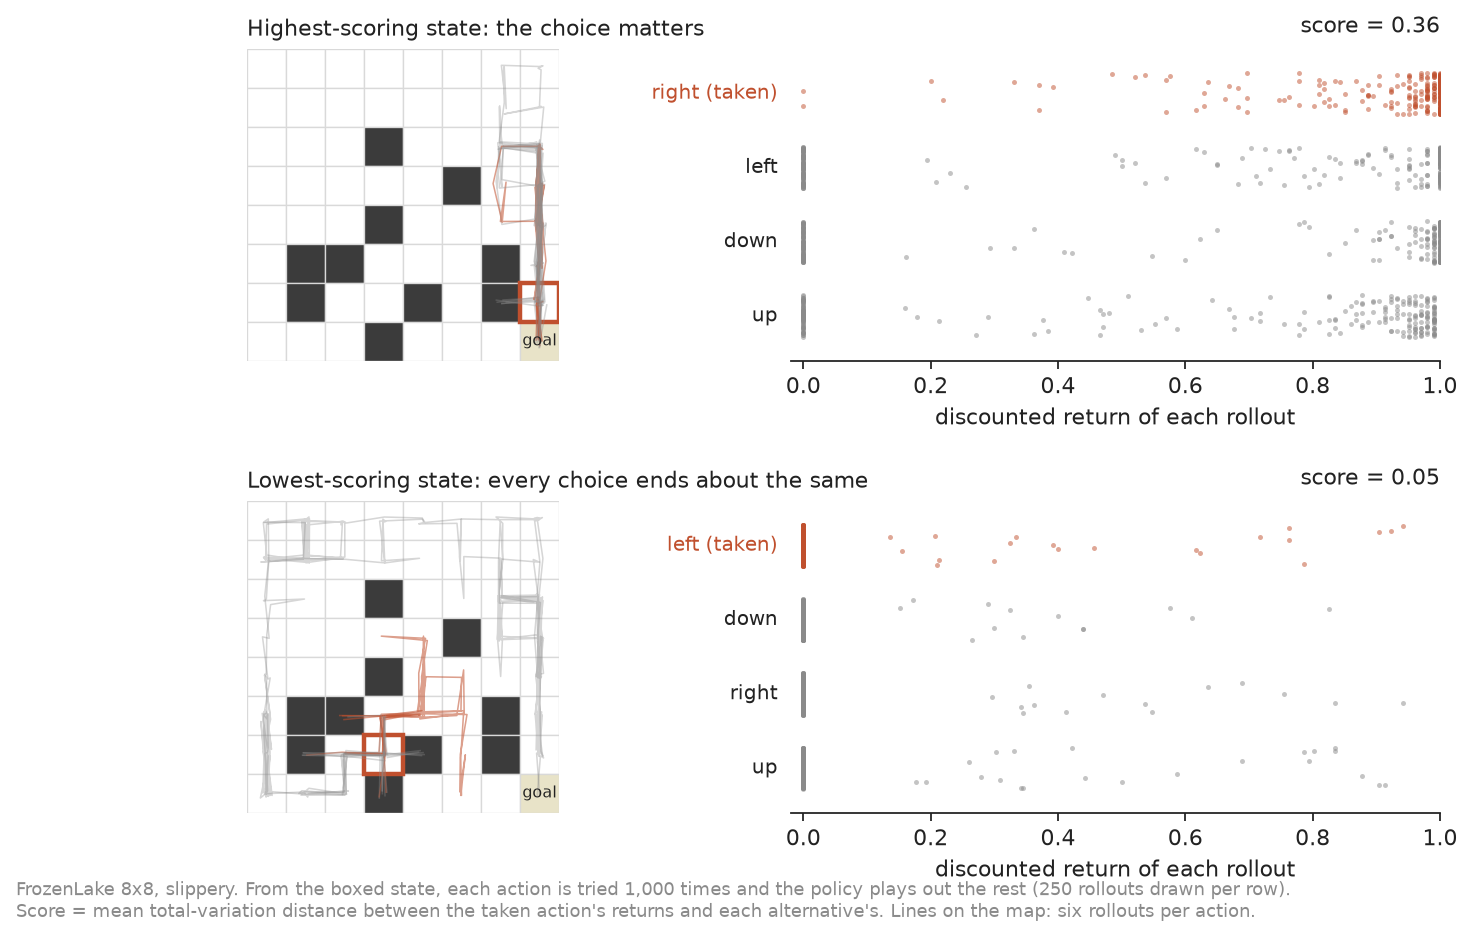
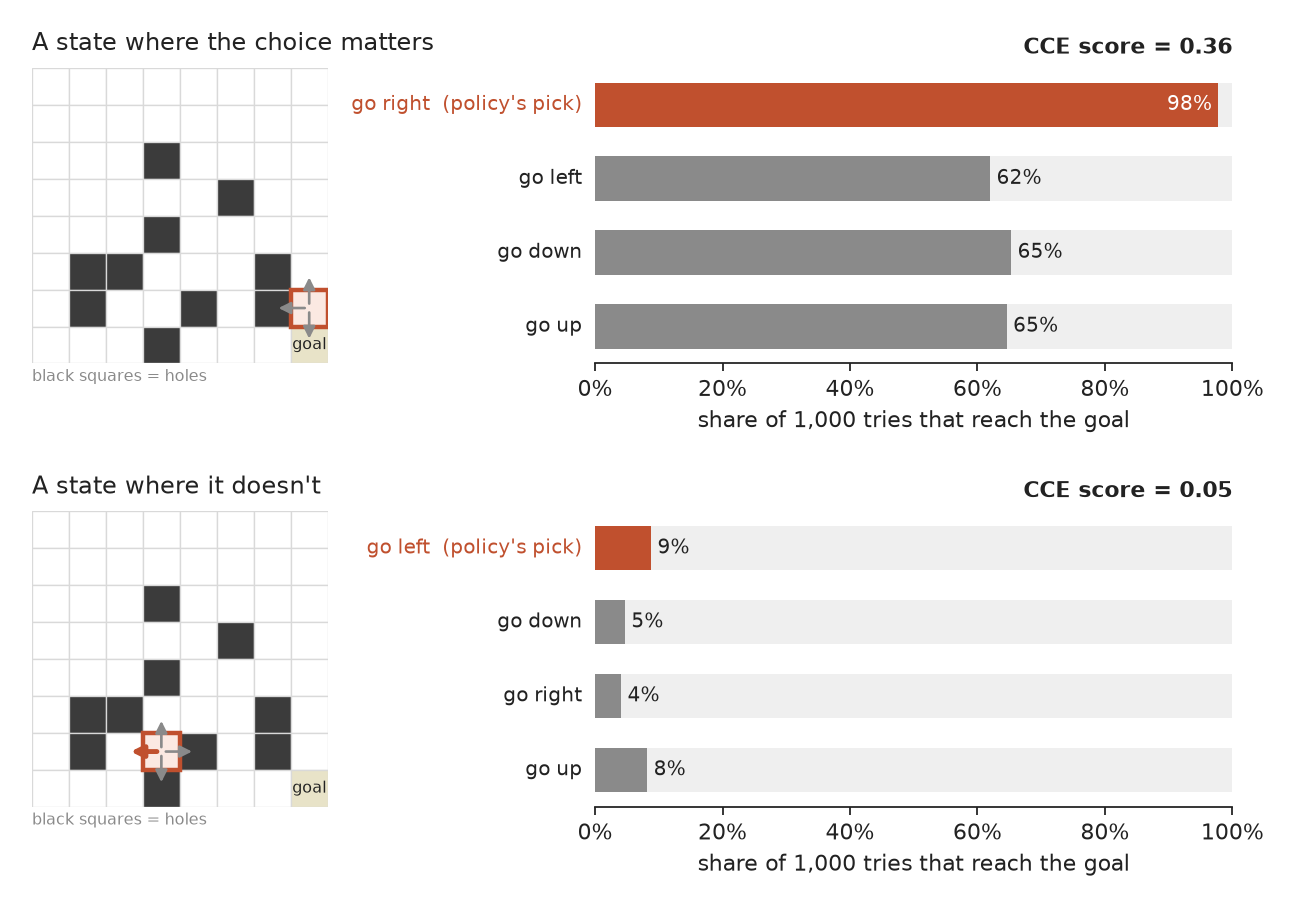
docs: clearer algorithm figure (arrows + goal-rate bars)

diff --git a/analysis/readme/make_readme_figs.py b/analysis/readme/make_readme_figs.py
@@ -135,7 +135,7 @@ score_hi, rets_hi = cce_score(HIGH, n=1000)
 score_lo, rets_lo = cce_score(LOW, n=1000)
 
 
-def draw_map(ax, s, paths_by_action):
+def draw_map(ax, s):
     for r in range(N):
         for c in range(N):
             ch = MAP[r][c]
@@ -143,53 +143,53 @@ def draw_map(ax, s, paths_by_action):
             ax.add_patch(Rectangle((c, r), 1, 1, fc=fc, ec=LIGHT, lw=0.6))
             if ch == "G":
                 ax.text(c + .5, r + .5, "goal", ha="center", va="center", fontsize=7, color=INK)
-    taken = policy[s]
-    for a, paths in paths_by_action.items():
-        col = ACCENT if a == taken else GRAY
-        for p in paths:
-            rc = np.array([cell(x) for x in p], float)
-            jitter = rng.normal(0, 0.06, rc.shape)
-            ax.plot(rc[:, 1] + .5 + jitter[:, 1], rc[:, 0] + .5 + jitter[:, 0],
-                    color=col, lw=0.7, alpha=0.55 if a == taken else 0.35)
     r, c = cell(s)
-    ax.add_patch(Rectangle((c, r), 1, 1, fc="none", ec=ACCENT, lw=2))
+    ax.add_patch(Rectangle((c, r), 1, 1, fc="#fbe9e2", ec=ACCENT, lw=2))
+    taken = policy[s]
+    for a in range(4):
+        dr, dc = MOVES[a]
+        col = ACCENT if a == taken else GRAY
+        ax.annotate("", xy=(c + .5 + dc * .95, r + .5 + dr * .95), xytext=(c + .5, r + .5),
+                    arrowprops=dict(arrowstyle="-|>", color=col, lw=2.2 if a == taken else 1.2,
+                                    mutation_scale=11))
+    ax.text(0, N + 0.15, "black squares = holes", ha="left", va="top", fontsize=7, color=GRAY)
     ax.set_xlim(0, N); ax.set_ylim(N, 0); ax.set_aspect("equal"); ax.axis("off")
 
 
-def draw_returns(ax, s, rets, score):
+def draw_outcomes(ax, s, rets, score):
     taken = policy[s]
     order = [taken] + [a for a in range(4) if a != taken]
     for i, a in enumerate(order):
-        x = rets[a][:250]
-        y = np.full_like(x, -i) + rng.uniform(-0.28, 0.28, x.size)
-        ax.scatter(x, y, s=5, color=ACCENT if a == taken else GRAY, alpha=0.5, lw=0)
-        ax.text(-0.04, -i, ACTIONS[a] + (" (taken)" if a == taken else ""),
-                ha="right", va="center", fontsize=9,
-                color=ACCENT if a == taken else INK)
+        goal = (rets[a] > 0).mean()
+        col = ACCENT if a == taken else GRAY
+        ax.barh(-i, goal, color=col, height=0.6)
+        ax.barh(-i, 1 - goal, left=goal, color="#efefef", height=0.6)
+        ax.text(goal + 0.01 if goal < 0.85 else goal - 0.01, -i, f"{goal:.0%}",
+                ha="left" if goal < 0.85 else "right", va="center", fontsize=9,
+                color=INK if goal < 0.85 else "white")
+        ax.text(-0.02, -i, "go " + ACTIONS[a] + ("  (policy's pick)" if a == taken else ""),
+                ha="right", va="center", fontsize=9, color=ACCENT if a == taken else INK)
     ax.set_yticks([]); ax.spines["left"].set_visible(False)
-    ax.set_xlim(-0.02, 1.0); ax.set_ylim(-3.6, 0.6)
-    ax.set_xlabel("discounted return of each rollout")
-    ax.text(1.0, 0.75, f"score = {score:.2f}", ha="right", va="bottom", fontsize=10, color=INK)
+    ax.set_xlim(0, 1); ax.set_ylim(-3.5, 0.5)
+    ax.xaxis.set_major_formatter(matplotlib.ticker.PercentFormatter(1.0, decimals=0))
+    ax.set_xlabel("share of 1,000 tries that reach the goal")
+    ax.text(1.0, 0.62, f"CCE score = {score:.2f}", ha="right", va="bottom", fontsize=10,
+            color=INK, weight="bold")
 
 
-fig = plt.figure(figsize=(10, 6.2))
-gs = fig.add_gridspec(2, 2, width_ratios=[1, 1.6], hspace=0.45, wspace=0.35)
+fig = plt.figure(figsize=(10, 6.0))
+gs = fig.add_gridspec(2, 2, width_ratios=[1, 1.7], hspace=0.5, wspace=0.45)
 for row, (s, rets, score, label) in enumerate([
-        (HIGH, rets_hi, score_hi, "Highest-scoring state: the choice matters"),
-        (LOW, rets_lo, score_lo, "Lowest-scoring state: every choice ends about the same")]):
-    paths = {a: [rollout(s, a)[1] for _ in range(6)] for a in range(4)}
-    axm = fig.add_subplot(gs[row, 0]); draw_map(axm, s, paths)
-    axr = fig.add_subplot(gs[row, 1]); draw_returns(axr, s, rets, score)
-    axm.set_title(label, loc="left", fontsize=10, color=INK, pad=6)
-fig.text(0.01, 0.005,
-         "FrozenLake 8x8, slippery. From the boxed state, each action is tried 1,000 times and the "
-         "policy plays out the rest (250 rollouts drawn per row).\nScore = mean total-variation "
-         "distance between the taken action's returns and each alternative's. Lines on the map: "
-         "six rollouts per action.",
-         fontsize=8, color=GRAY)
-fig.savefig(OUT / "cce_core.png", dpi=160, bbox_inches="tight")
+        (HIGH, rets_hi, score_hi, "A state where the choice matters"),
+        (LOW, rets_lo, score_lo, "A state where it doesn't")]):
+    axm = fig.add_subplot(gs[row, 0]); draw_map(axm, s)
+    axr = fig.add_subplot(gs[row, 1]); draw_outcomes(axr, s, rets, score)
+    axm.set_title(label, loc="left", fontsize=11, color=INK, pad=8)
+fig.savefig(OUT / "cce_core.png", dpi=160, bbox_inches="tight", pad_inches=0.2)
 plt.close(fig)
 print("cce_core", round(score_hi, 3), round(score_lo, 3))
+for s, rets in ((HIGH, rets_hi), (LOW, rets_lo)):
+    print(cell(s), ACTIONS[policy[s]], {ACTIONS[a]: round((rets[a] > 0).mean(), 3) for a in range(4)})
 
 # ---------------------------------------------------------- priority figure
 scores = np.array([first[s] for s in nonterm])

diff --git a/README.md b/README.md
@@ -49,10 +49,16 @@ runs use Wasserstein, because TV is always zero with a single rollout.
 
 ![CCE score](docs/figures/readme/eq/eq_cce_score.png)
 
-Here are steps 1 and 2 on real FrozenLake rollouts. At the top state, the taken action
-almost always reaches the goal, and the alternatives often fall in a hole (return 0), so the
-score is high. At the bottom state, every action usually ends in a hole, so the choice barely
-matters and the score is near zero.
+Here are steps 1 and 2 on real FrozenLake rollouts. The ice is slippery, so each action is
+tried 1,000 times from the boxed square.
+
+- **Top, next to the goal:** going right reaches the goal 98% of the time. Every other
+  action drops to about 64%. The choice matters, so the score is high (0.36).
+- **Bottom, between holes:** every action reaches the goal less than 10% of the time. The
+  choice barely changes anything, so the score is near zero (0.05).
+
+The bars show only the share of tries that reach the goal. The score itself compares the full
+spread of returns, which also accounts for how long each try takes.
 
 ![Steps 1 and 2 on FrozenLake: rollouts per action from a high-scoring and a low-scoring state, and their returns](docs/figures/readme/cce_core.png)
 

diff --git a/docs/figures/readme/PROVENANCE.md b/docs/figures/readme/PROVENANCE.md
@@ -18,7 +18,7 @@ Made by [`analysis/readme/make_readme_figs.py`](../../../analysis/readme/make_re
 
 | File | Source |
 |---|---|
-| `cce_core.png` | Fresh rollouts on FrozenLake 8x8 slippery: exact dynamics, greedy policy from value iteration, 1,000 rollouts per action, TV over 50 bins, seed 7 |
+| `cce_core.png` | Fresh rollouts on FrozenLake 8x8 slippery: exact dynamics, greedy policy from value iteration, 1,000 rollouts per action; bars = share reaching the goal, score = TV over 50 return bins; seed 7 |
 | `cce_priority.png` | Same setup, all 53 non-terminal states (300 rollouts each), ε = 0.01 |
 | `jaxnav_curve.png` | Raw `eval.jsonl` from runs 277734–277736 (Uniform), 277751–277753 (PER), 281092, 281093, 280874 (CCE + ranked-TD decay). SHA-256 matches `docs/media/demos/jaxnav_learning_curve.json`. Recomputed window means differ from that file by ≤0.4 points (binning); the README table quotes the file. |
 
